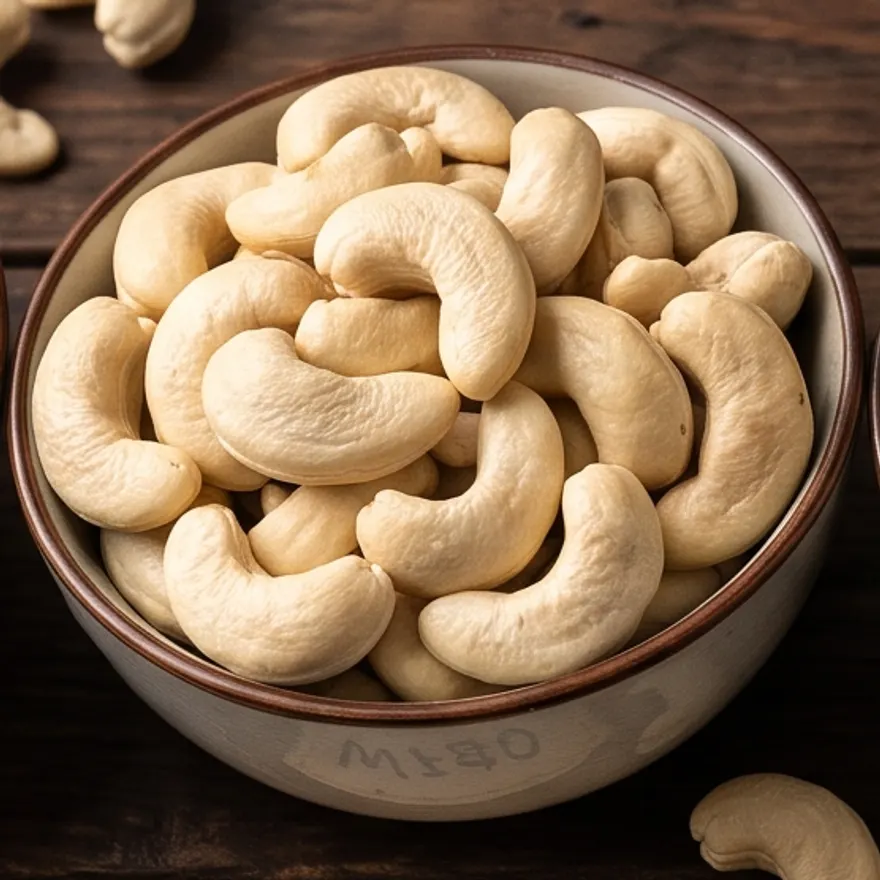
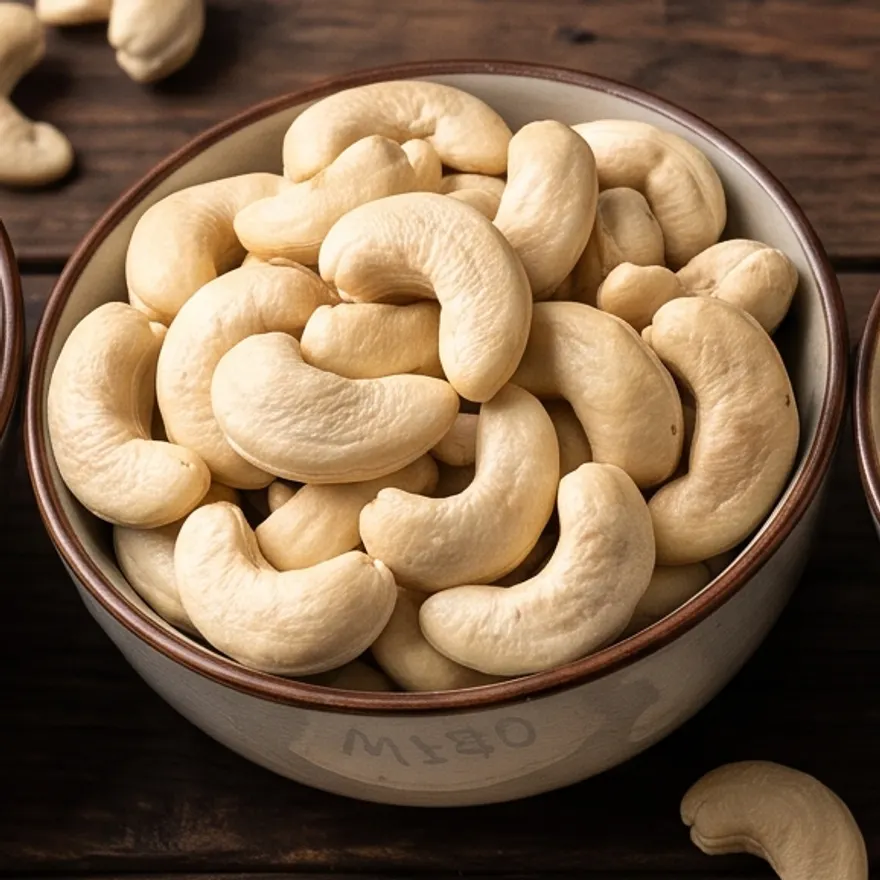
Add remaining product photos and recrop grade photos at one scale

diff --git a/data/products.ts b/data/products.ts
@@ -54,20 +54,20 @@ export const products: Product[] = [
   { id: 5, slug: "w450-petite-cashews", category: "whole", subcategory: "W450", name: "W450 Petite cashews", description: "Small whole kernels for cooking and baking.", price: 229, mrp: 265, art: "whole", popularity: 4, keywords: "kaju cashew small", image: "/products/w450-petite-cashews.webp" },
   { id: 6, slug: "jumbo-halves-jh", category: "splits", subcategory: "JH", name: "Jumbo halves (JH)", description: "Large halves split along the natural seam. Good for sweets and garnish.", price: 219, mrp: 255, art: "half", popularity: 5, keywords: "kaju cashew split", image: "/products/jumbo-halves-jh.webp" },
   { id: 7, slug: "large-white-pieces-lwp", category: "splits", subcategory: "LWP", name: "Large white pieces (LWP)", description: "Large broken pieces for pulao, biryani and kheer.", price: 199, mrp: 230, art: "piece", pieceScale: 1, popularity: 5, keywords: "kaju cashew tukda broken", image: "/products/large-white-pieces-lwp.webp" },
-  { id: 8, slug: "small-white-pieces-swp", category: "splits", subcategory: "SWP", name: "Small white pieces (SWP)", description: "Small pieces for halwa, cookies and laddoo.", price: 179, mrp: 210, art: "piece", pieceScale: 0.72, popularity: 3, keywords: "kaju cashew tukda broken" },
-  { id: 9, slug: "baby-bits-bb", category: "splits", subcategory: "BB", name: "Baby bits (BB)", description: "Fine bits for kaju paste, gravies and bakery fillings.", price: 159, mrp: 185, badge: "Lowest price", art: "piece", pieceScale: 0.5, popularity: 3, keywords: "kaju cashew tukda" },
+  { id: 8, slug: "small-white-pieces-swp", category: "splits", subcategory: "SWP", name: "Small white pieces (SWP)", description: "Small pieces for halwa, cookies and laddoo.", price: 179, mrp: 210, art: "piece", pieceScale: 0.72, popularity: 3, keywords: "kaju cashew tukda broken", image: "/products/small-white-pieces-swp.webp" },
+  { id: 9, slug: "baby-bits-bb", category: "splits", subcategory: "BB", name: "Baby bits (BB)", description: "Fine bits for kaju paste, gravies and bakery fillings.", price: 159, mrp: 185, badge: "Lowest price", art: "piece", pieceScale: 0.5, popularity: 3, keywords: "kaju cashew tukda", image: "/products/baby-bits-bb.webp" },
   { id: 10, slug: "roasted-salted-kaju", category: "flavoured", subcategory: "Roasted", name: "Roasted and salted kaju", description: "Slow-roasted W320 kaju with a light touch of salt.", price: 289, mrp: 330, art: "flav", tone: "roast", popularity: 7, keywords: "cashew salted", image: "/products/roasted-salted-kaju.webp" },
   { id: 11, slug: "peri-peri-kaju", category: "flavoured", subcategory: "Masala", name: "Peri peri kaju", description: "Roasted kaju in a hot, tangy peri peri coat.", price: 309, mrp: 350, badge: "New", badgeHot: true, art: "flav", tone: "peri", popularity: 7, keywords: "cashew spicy masala", image: "/products/peri-peri-kaju.webp" },
   { id: 12, slug: "black-pepper-kaju", category: "flavoured", subcategory: "Masala", name: "Black pepper kaju", description: "Roasted kaju with crushed black pepper and rock salt.", price: 299, mrp: 340, art: "flav", tone: "pepper", popularity: 5, keywords: "cashew kali mirch masala", image: "/products/black-pepper-kaju.webp" },
-  { id: 13, slug: "honey-roasted-kaju", category: "flavoured", subcategory: "Sweet", name: "Honey roasted kaju", description: "A golden honey glaze with a hint of cinnamon.", price: 319, mrp: 360, art: "flav", tone: "honey", popularity: 4, keywords: "cashew sweet" },
+  { id: 13, slug: "honey-roasted-kaju", category: "flavoured", subcategory: "Sweet", name: "Honey roasted kaju", description: "A golden honey glaze with a hint of cinnamon.", price: 319, mrp: 360, art: "flav", tone: "honey", popularity: 4, keywords: "cashew sweet", image: "/products/honey-roasted-kaju.webp" },
   { id: 14, slug: "california-almonds", category: "dryfruits", subcategory: "Almonds", name: "California almonds", description: "Crunchy whole badam. Good soaked overnight.", price: 249, mrp: 290, art: "almond", popularity: 8, keywords: "badam", image: "/products/california-almonds.webp" },
   { id: 15, slug: "roasted-salted-pistachios", category: "dryfruits", subcategory: "Pistachios", name: "Roasted salted pistachios", description: "Pista in the shell, lightly roasted and salted.", price: 349, mrp: 399, art: "pista", popularity: 6, keywords: "pista", image: "/products/roasted-salted-pistachios.webp" },
   { id: 16, slug: "golden-raisins", category: "dryfruits", subcategory: "Raisins", name: "Golden raisins", description: "Sweet, plump, seedless kishmish.", price: 129, mrp: 150, art: "raisin", popularity: 5, keywords: "kishmish kismis draksh", image: "/products/golden-raisins.webp" },
   { id: 17, slug: "walnut-kernels", category: "dryfruits", subcategory: "Walnuts", name: "Walnut kernels", description: "Light halves with a mild, buttery taste.", price: 329, mrp: 380, art: "walnut", popularity: 4, keywords: "akhrot", image: "/products/walnut-kernels.webp" },
   { id: 18, slug: "dried-figs", category: "dryfruits", subcategory: "Figs", name: "Dried figs", description: "Soft, naturally sweet anjeer.", price: 379, mrp: 430, art: "fig", popularity: 3, keywords: "anjeer anjir", image: "/products/dried-figs.webp" },
-  { id: 19, slug: "festive-duo-box", category: "gifts", subcategory: "Under ₹1000", name: "Festive duo box", description: "W240 cashews and California almonds, 200 g each.", price: 749, mrp: 850, fixedPrice: true, art: "tray", parts: ["whole", "almond"], popularity: 6, keywords: "gift diwali hamper" },
+  { id: 19, slug: "festive-duo-box", category: "gifts", subcategory: "Under ₹1000", name: "Festive duo box", description: "W240 cashews and California almonds, 200 g each.", price: 749, mrp: 850, fixedPrice: true, art: "tray", parts: ["whole", "almond"], popularity: 6, keywords: "gift diwali hamper", image: "/products/festive-duo-box.webp" },
   { id: 20, slug: "royal-dry-fruit-tray", category: "gifts", subcategory: "Premium", name: "Royal dry fruit tray", description: "W180 cashews, pistachios, almonds and figs, 200 g each.", price: 1899, mrp: 2200, badge: "Premium", badgeHot: true, fixedPrice: true, art: "tray", parts: ["whole", "pista", "almond", "fig"], popularity: 5, keywords: "gift diwali hamper wedding", image: "/products/royal-dry-fruit-tray.webp" },
-  { id: 21, slug: "kaju-gift-tin", category: "gifts", subcategory: "Under ₹1000", name: "Kaju gift tin", description: "500 g of W240 cashews in a gold-rimmed tin.", price: 649, mrp: 740, fixedPrice: true, art: "tin", popularity: 4, keywords: "gift diwali cashew" },
+  { id: 21, slug: "kaju-gift-tin", category: "gifts", subcategory: "Under ₹1000", name: "Kaju gift tin", description: "500 g of W240 cashews in a gold-rimmed tin.", price: 649, mrp: 740, fixedPrice: true, art: "tin", popularity: 4, keywords: "gift diwali cashew", image: "/products/kaju-gift-tin.webp" },
 ];
 
 export const productById = (id: number) => products.find((p) => p.id === id);

diff --git a/public/products/CREDITS.md b/public/products/CREDITS.md
@@ -3,7 +3,9 @@
 | File | Source |
 | --- | --- |
 | w180-king-cashews, w240-premium-cashews, w320-classic-cashews, w450-petite-cashews, w210-jumbo-cashews, jumbo-halves-jh, large-white-pieces-lwp, roasted-salted-kaju, black-pepper-kaju, peri-peri-kaju | Cropped from the owner's own cashew grade images (supplied by the site owner) |
-| roasted-salted-pistachios, royal-dry-fruit-tray | Cropped from the owner's own images (supplied by the site owner) |
-| golden-raisins, walnut-kernels, dried-figs, california-almonds | Wikimedia Commons, CC0 (public domain), by Fumikas Sagisavas. Stand-ins: replace with your own stock photos. |
+| roasted-salted-pistachios, royal-dry-fruit-tray, dried-figs, walnut-kernels, baby-bits-bb, small-white-pieces-swp, honey-roasted-kaju, kaju-gift-tin, festive-duo-box | Cropped from the owner's own images (supplied by the site owner) |
+| golden-raisins, california-almonds | Wikimedia Commons, CC0 (public domain), by Fumikas Sagisavas. Stand-ins: replace with your own stock photos. |
 
 All files are resized and converted to WebP.
+
+Hero grade photos (public/grades/) are cropped from the same owner images, at one fixed crop width so kernel size is comparable between grades.
